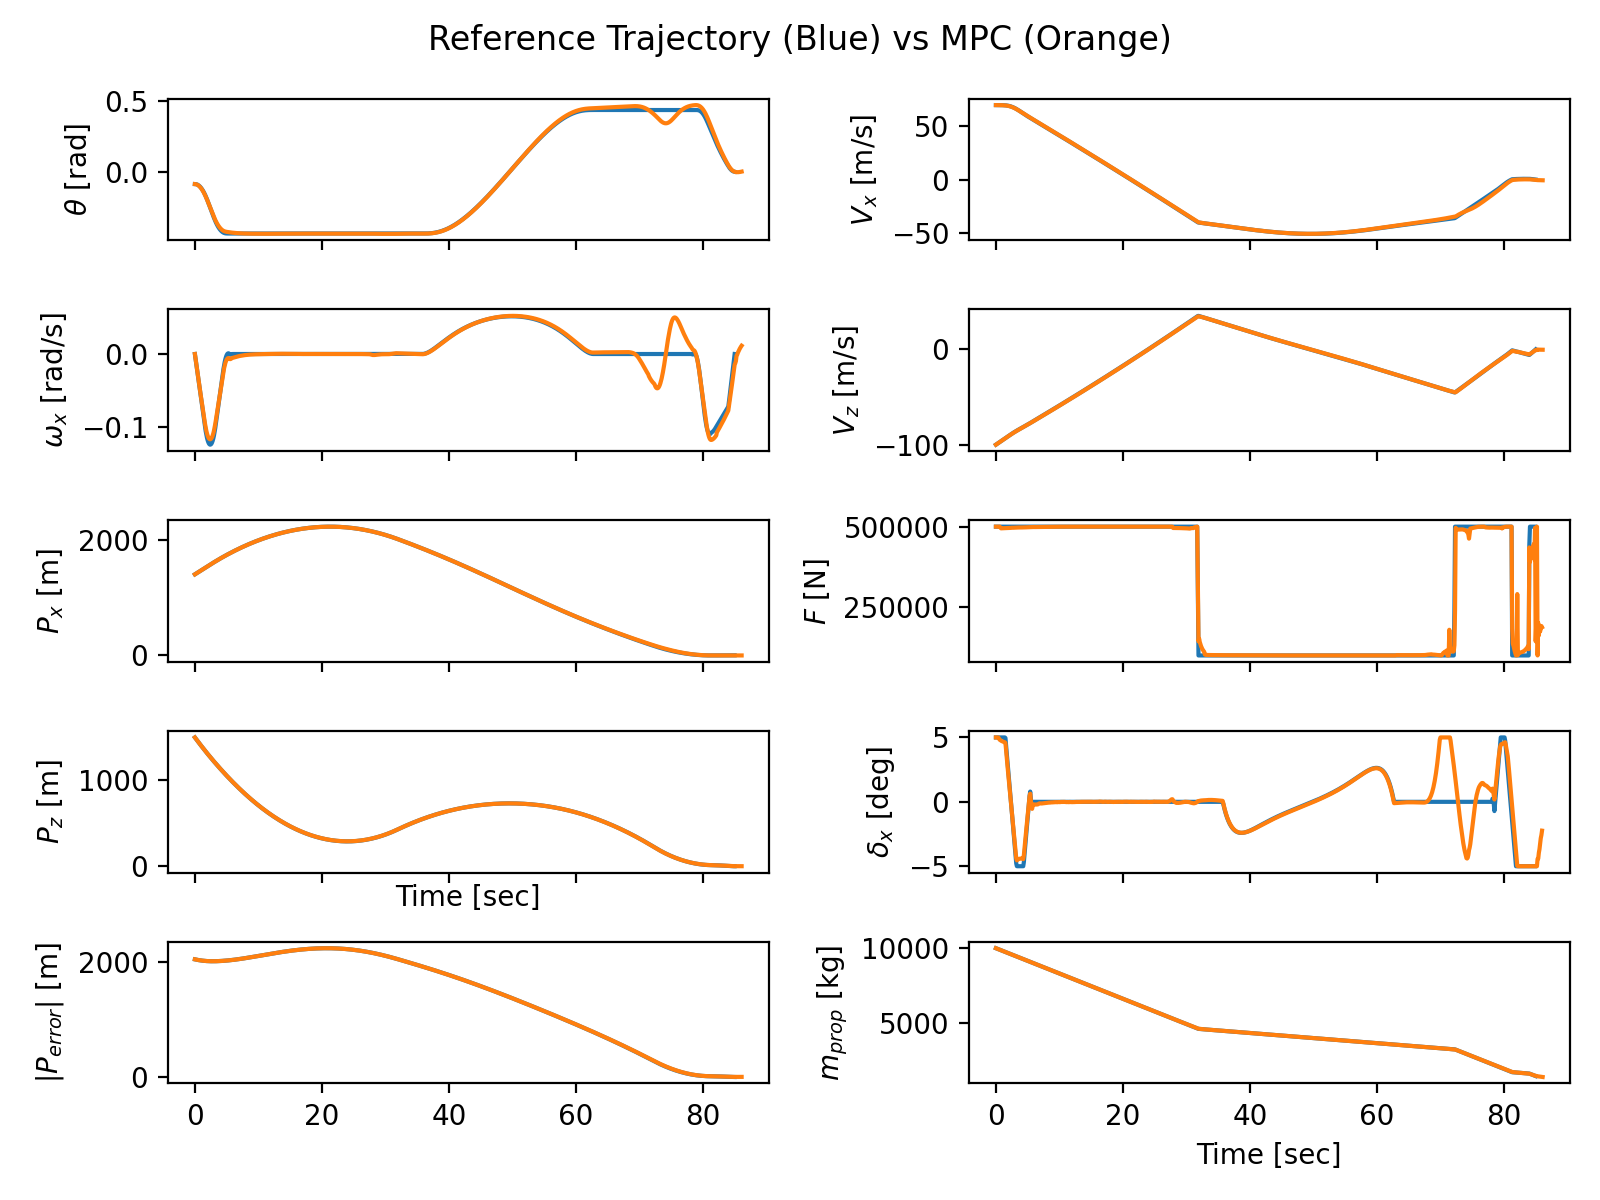
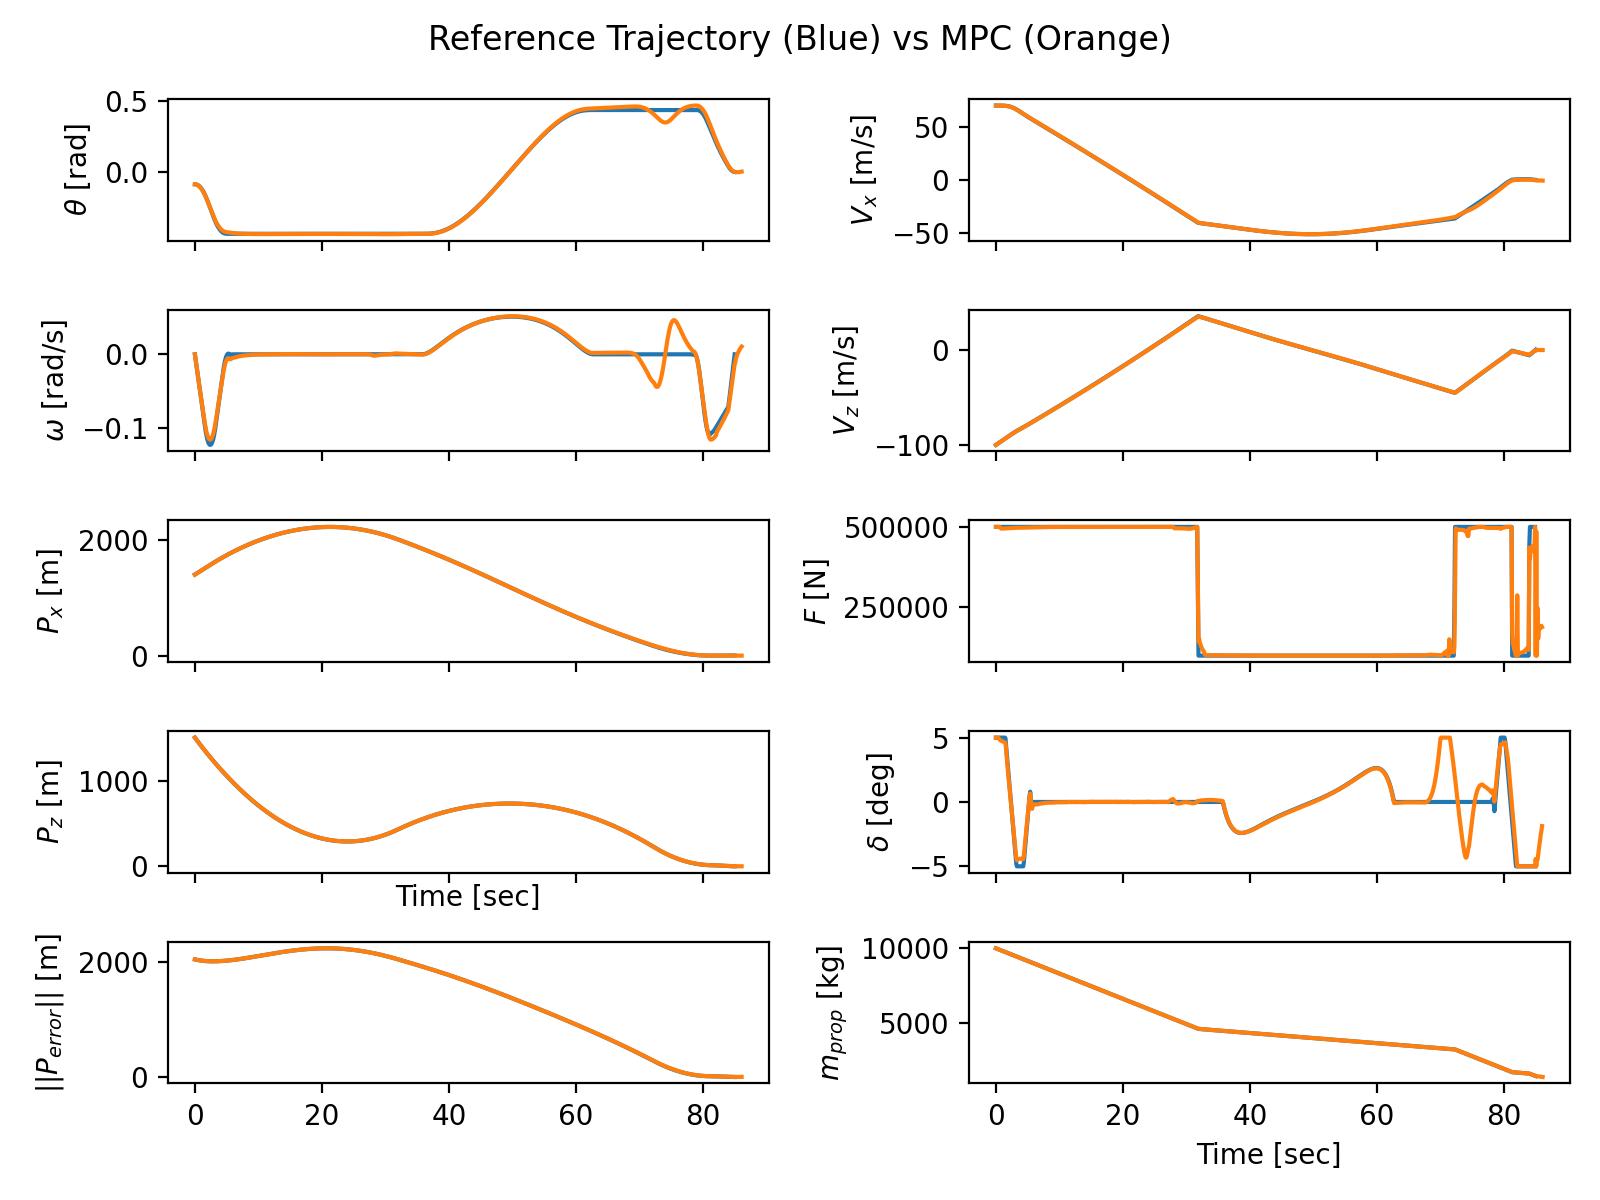
Update state and input plot y-labels

diff --git a/main.py b/main.py
@@ -355,7 +355,7 @@ def plotResults(time, z, u, time_mpc, u_mpc, every=1, ani=False):
         fig, axs = plt.subplots(3, 1, figsize=(6, 6),
                                 gridspec_kw={'height_ratios': [1, 1, 3]})
         plt.subplots_adjust(left = 0.15, top = 0.96, right = 0.95, bottom = 0.1,
-                            hspace = 0.5, wspace = 0.5)
+                            hspace = 0.45, wspace = 0.5)
 
         def get_arrow(ind):
             # Spacecraft
@@ -443,14 +443,14 @@ def plotResultsSimple(time, z, u, axs):
     axs[0].plot(time, z1)
     axs[0].set_ylabel(r'$\theta$ [rad]')
     axs[1].plot(time, z2)
-    axs[1].set_ylabel(r'$\omega_x$ [rad/s]')
+    axs[1].set_ylabel(r'$\omega$ [rad/s]')
     axs[2].plot(time, z3)
     axs[2].set_ylabel(r'$P_x$ [m]')
     axs[3].plot(time, z4)
     axs[3].set_ylabel(r'$P_z$ [m]')
     axs[3].set_xlabel('Time [sec]')
     axs[4].plot(time, np.linalg.norm(np.vstack((zNBar[2]-z3, zNBar[3]-z4)), axis=0))
-    axs[4].set_ylabel(r'$\| P_{error} \|$ [m]')
+    axs[4].set_ylabel(r'$\|\| P_{error} \|\|$ [m]')
     axs[5].plot(time, z5)
     axs[5].set_ylabel(r'$V_x$ [m/s]')
     axs[6].plot(time, z6)
@@ -458,7 +458,7 @@ def plotResultsSimple(time, z, u, axs):
     axs[7].plot(time[:-1], u1)
     axs[7].set_ylabel(r'$F$ [N]')
     axs[8].plot(time[:-1], np.array(u2)*180/np.pi)
-    axs[8].set_ylabel(r'$\delta_x$ [deg]')
+    axs[8].set_ylabel(r'$\delta$ [deg]')
     axs[9].plot(time, np.array(z7))
     axs[9].set_ylabel(r'$m_{prop}$ [kg]')
     axs[9].set_xlabel('Time [sec]')
